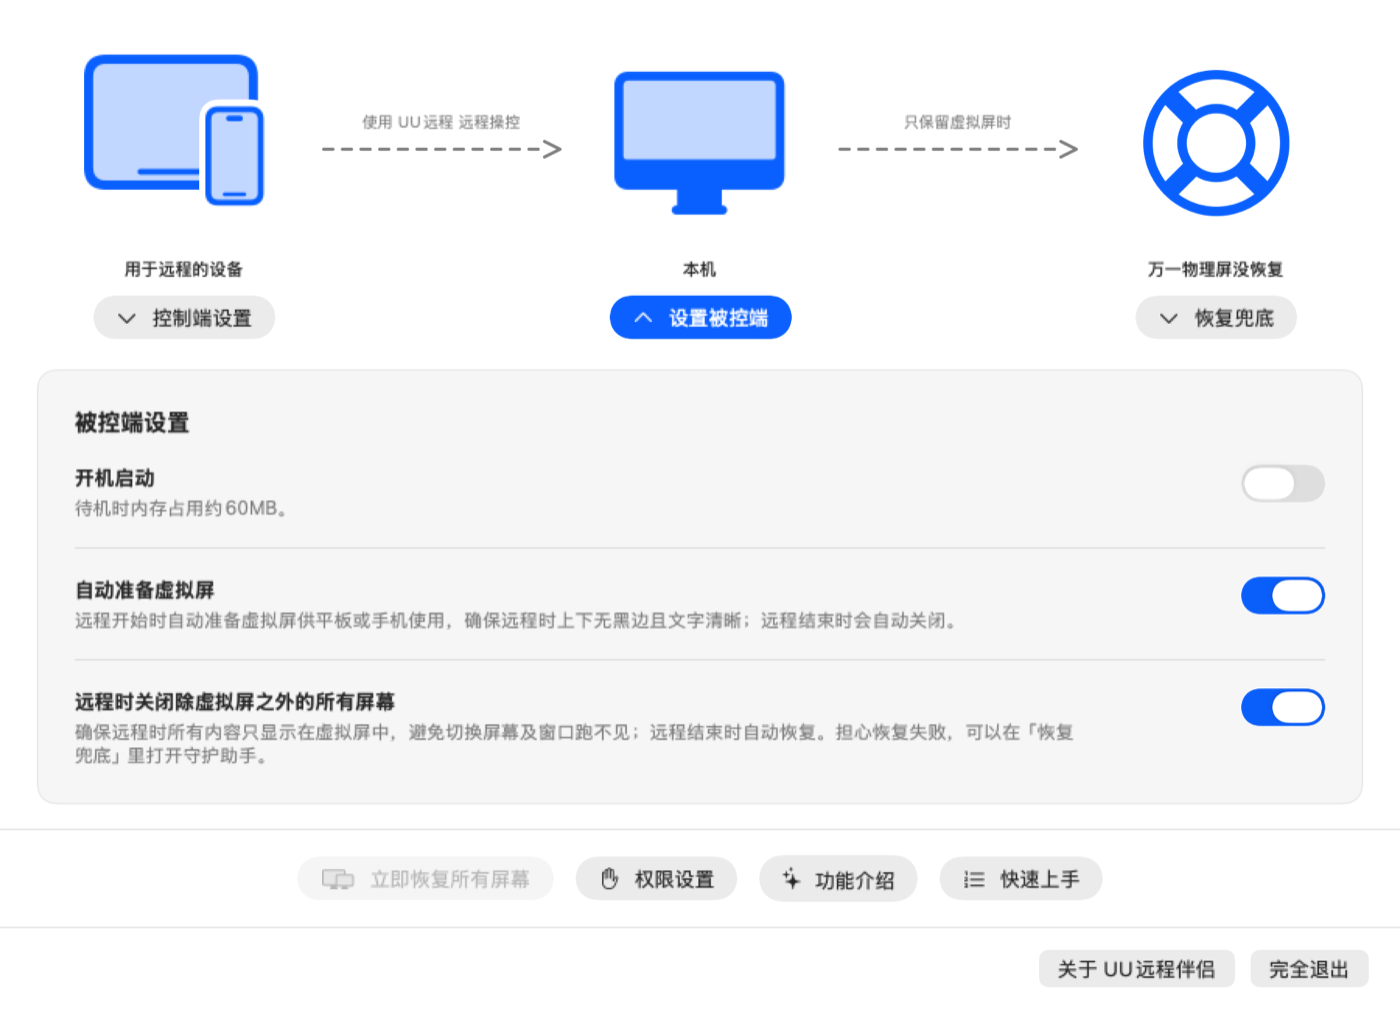
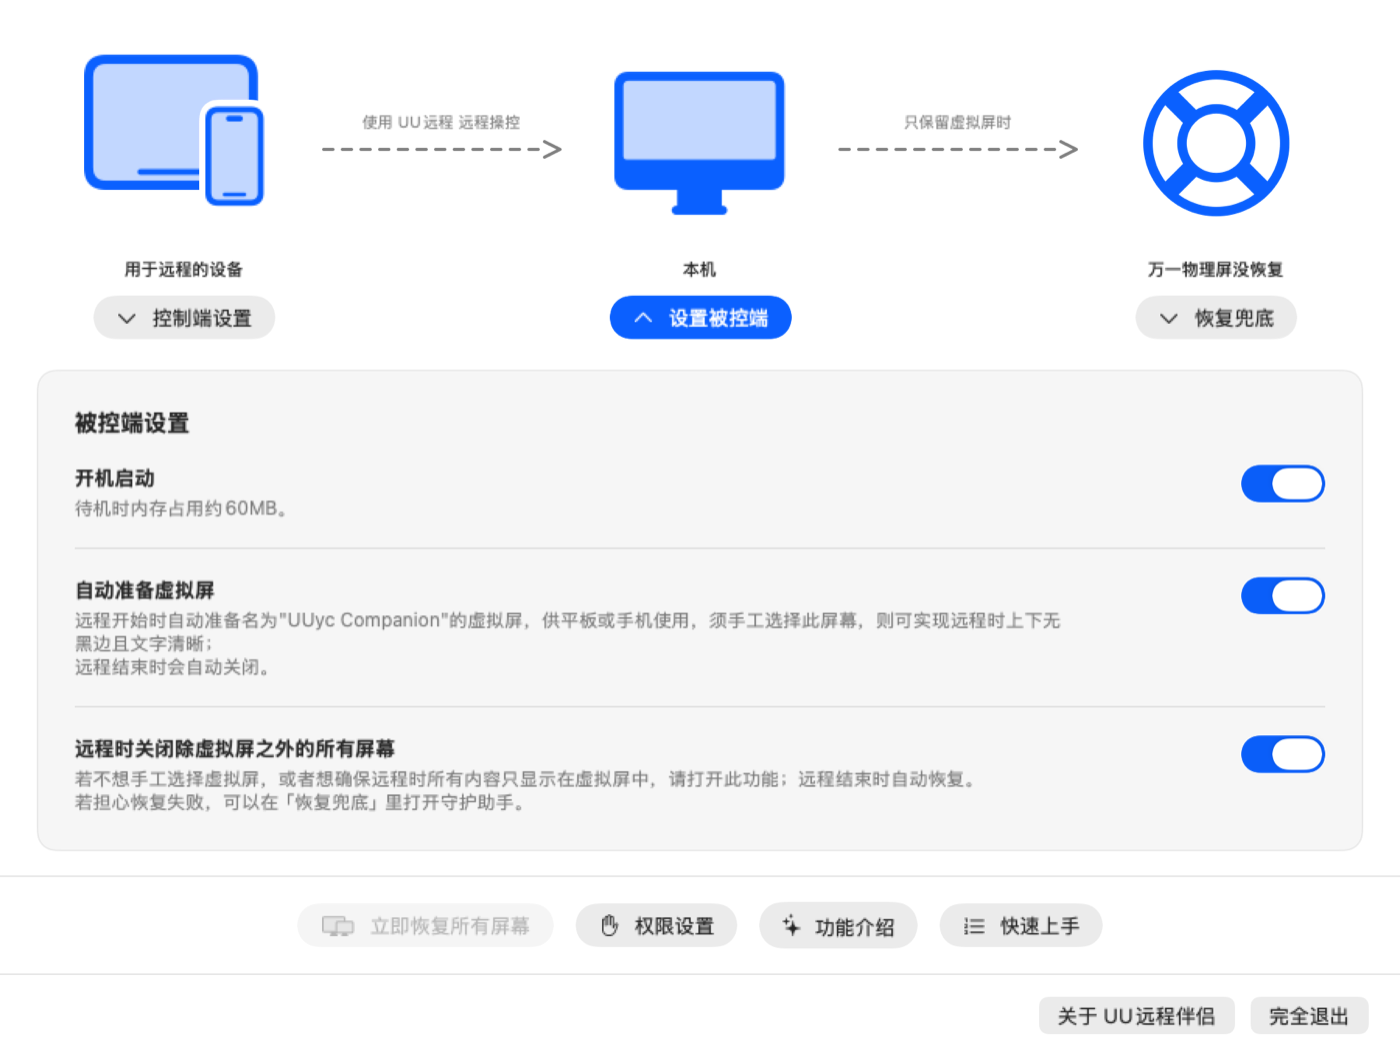
v1.1.3：强调需要手动选择「UUyc Companion」虚拟屏
问题：没打开「远程时关闭除虚拟屏之外的所有屏幕」时，用户可能不知道 UU远程 里多了一块「UUyc Companion」虚拟屏，需要手动选择才能铺满无黑边。
- 快速上手改为 4 步：提醒填原始分辨率（不要除以 2），说明要在 UU远程 里选择「UUyc Companion」虚拟屏
- 「自动准备虚拟屏」「远程时关闭除虚拟屏之外的所有屏幕」的说明改为强调手动选择与自动切换的区别
- README 快速上手同步，并补充手动选择虚拟屏的说明；更新截图；版本号 1.1.3

diff --git a/Sources/UUDisplay/SettingsWindow.swift b/Sources/UUDisplay/SettingsWindow.swift
@@ -295,11 +295,11 @@ struct ControlledPanel: View {
             }
             Divider()
             row("自动准备虚拟屏",
-                "远程开始时自动准备虚拟屏供平板或手机使用，确保远程时上下无黑边且文字清晰；远程结束时会自动关闭。",
+                "远程开始时自动准备名为\"UUyc Companion\"的虚拟屏，供平板或手机使用，须手工选择此屏幕，则可实现远程时上下无黑边且文字清晰；\n远程结束时会自动关闭。",
                 isOn: Binding(get: { model.autoVirtual }, set: { model.toggleAutoVirtual($0) }))
             Divider()
             row("远程时关闭除虚拟屏之外的所有屏幕",
-                "确保远程时所有内容只显示在虚拟屏中，避免切换屏幕及窗口跑不见；远程结束时自动恢复。担心恢复失败，可以在「恢复兜底」里打开守护助手。",
+                "若不想手工选择虚拟屏，或者想确保远程时所有内容只显示在虚拟屏中，请打开此功能；远程结束时自动恢复。\n若担心恢复失败，可以在「恢复兜底」里打开守护助手。",
                 isOn: Binding(get: { model.disablePhysical }, set: { model.toggleDisablePhysical($0) }),
                 enabled: model.autoVirtual)
             if !model.autoVirtual {
@@ -378,11 +378,10 @@ struct FallbackPanel: View {
 
 private struct QuickStartView: View {
     private let steps = [
-        "将您所有打算用于远程的平板、手机、电脑，都下载并登录同一个UU远程帐号。",
-        "本软件会自动读取已登录的设备列表。",
-        "咨询AI您设备的物理分辨率，并将分辨率填入列表中。",
-        "启用“自动准备虚拟屏”功能，远程时就会实现无黑边且高清（HiDPI）的画面。",
-        "如果不想远程时切换屏幕，打开“远程时关闭除虚拟屏之外的所有屏幕”功能。",
+        "将所有打算用于远程的平板、手机、电脑，都下载并登录同一个UU远程帐号，本软件会自动读取已登录的设备列表。",
+        "咨询AI您设备的物理分辨率，并将分辨率填入列表中。不要除以2，填查到的分辨率就好。",
+        "启用“自动准备虚拟屏”功能，远程时会多一个名为\"UUyc Companion\"的虚拟屏幕，选择它就会实现无黑边的高清的画面。",
+        "若不想手工切，或多显示器下，遇上窗口跑不见，Dock栏到处跑的情况，请打开“远程时关闭除虚拟屏之外的所有屏幕”功能。",
     ]
 
     var body: some View {

diff --git a/文案.md b/文案.md
@@ -59,11 +59,10 @@
 | SET-15 | S63 | 按钮 | 功能介绍 |
 | SET-15b |  | 按钮（在「功能介绍」右边） | 快速上手 |
 | QUICK-01 |  | 「快速上手」气泡：标题 | 快速上手 |
-| QUICK-02 |  | 「快速上手」气泡：第 1 步 | 将您所有打算用于远程的平板、手机、电脑，都下载并登录同一个UU远程帐号。 |
-| QUICK-03 |  | 「快速上手」气泡：第 2 步 | 本软件会自动读取已登录的设备列表。 |
-| QUICK-04 |  | 「快速上手」气泡：第 3 步 | 咨询AI您设备的物理分辨率，并将分辨率填入列表中。 |
-| QUICK-05 |  | 「快速上手」气泡：第 4 步 | 启用“自动准备虚拟屏”功能，远程时就会实现无黑边且高清（HiDPI）的画面。 |
-| QUICK-06 |  | 「快速上手」气泡：第 5 步 | 如果不想远程时切换屏幕，打开“远程时关闭除虚拟屏之外的所有屏幕”功能。 |
+| QUICK-02 |  | 「快速上手」气泡：第 1 步 | 将所有打算用于远程的平板、手机、电脑，都下载并登录同一个UU远程帐号，本软件会自动读取已登录的设备列表。 |
+| QUICK-03 |  | 「快速上手」气泡：第 2 步 | 咨询AI您设备的物理分辨率，并将分辨率填入列表中。不要除以2，填查到的分辨率就好。 |
+| QUICK-04 |  | 「快速上手」气泡：第 3 步 | 启用“自动准备虚拟屏”功能，远程时会多一个名为"UUyc Companion"的虚拟屏幕，选择它就会实现无黑边的高清的画面。 |
+| QUICK-05 |  | 「快速上手」气泡：第 4 步 | 若不想手工切，或多显示器下，遇上窗口跑不见，Dock栏到处跑的情况，请打开“远程时关闭除虚拟屏之外的所有屏幕”功能。 |
 | SET-16 | S64 | 按钮 | 关于 UU远程伴侣 |
 | SET-17 | S65 | 按钮 | 完全退出 |
 | SET-18 |  | SET-17 的悬停提示 | 关闭 UU远程伴侣，守护助手也会一起停下（下次打开时恢复） |
@@ -104,9 +103,9 @@
 | MAC-03 |  | 开关 1 说明 | 待机时内存占用约60MB。 |
 | MAC-04 |  | 开关 1 设置失败时的红字 | 开机启动没有设置成功：{系统错误}。请先把本应用放进「应用程序」文件夹，再试一次。 |
 | MAC-05 |  | 开关 2 名称 | 自动准备虚拟屏 |
-| MAC-06 |  | 开关 2 说明 | 远程开始时自动准备虚拟屏供平板或手机使用，确保远程时上下无黑边且文字清晰；远程结束时会自动关闭。|
+| MAC-06 |  | 开关 2 说明 | 远程开始时自动准备名为"UUyc Companion"的虚拟屏，供平板或手机使用，须手工选择此屏幕，则可实现远程时上下无黑边且文字清晰；<br>远程结束时会自动关闭。 |
 | MAC-07 |  | 开关 3 名称 | 远程时关闭除虚拟屏之外的所有屏幕 |
-| MAC-08 |  | 开关 3 说明 | 确保远程时所有内容只显示在虚拟屏中，避免切换屏幕及窗口跑不见；远程结束时自动恢复。担心恢复失败，可以在「恢复兜底」里打开守护助手。 |
+| MAC-08 |  | 开关 3 说明 | 若不想手工选择虚拟屏，或者想确保远程时所有内容只显示在虚拟屏中，请打开此功能；远程结束时自动恢复。<br>若担心恢复失败，可以在「恢复兜底」里打开守护助手。 |
 | MAC-09 |  | 开关 2 关着时，开关 3 下方的小字 | 要先打开「自动准备虚拟屏」。 |
 
 ---

diff --git a/README.md b/README.md
@@ -115,11 +115,12 @@ xattr -dr com.apple.quarantine "/Applications/UUyc companion.app"
 
 设置窗口里点「**快速上手**」也能看到这几步：
 
-1. 将您所有打算用于远程的平板、手机、电脑，都下载并登录同一个 UU远程 帐号
-2. 本软件会自动读取已登录的设备列表
-3. 咨询 AI 您设备的物理分辨率，并将分辨率填入列表中
-4. 启用「自动准备虚拟屏」功能，远程时就会实现无黑边且高清（HiDPI）的画面
-5. 如果不想远程时切换屏幕，打开「远程时关闭除虚拟屏之外的所有屏幕」功能
+1. 将所有打算用于远程的平板、手机、电脑，都下载并登录同一个 UU远程 帐号，本软件会自动读取已登录的设备列表
+2. 咨询 AI 您设备的物理分辨率，并将分辨率填入列表中。不要除以 2，填查到的分辨率就好
+3. 启用「自动准备虚拟屏」功能，远程时会多一个名为「UUyc Companion」的虚拟屏幕，**选择它**就会实现无黑边的高清画面
+4. 若不想手工切，或多显示器下，遇上窗口跑不见、Dock 栏到处跑的情况，请打开「远程时关闭除虚拟屏之外的所有屏幕」功能
+
+> 只开「自动准备虚拟屏」时，UU远程 不会自动切到虚拟屏：需要在平板或手机的 UU远程 里打开「显示」面板，手动选择「UUyc companion · 设备名」。打开「远程时关闭除虚拟屏之外的所有屏幕」后只剩这一块屏幕，就不用手动选了。
 
 ### 填写每台设备的分辨率（重要）
 
